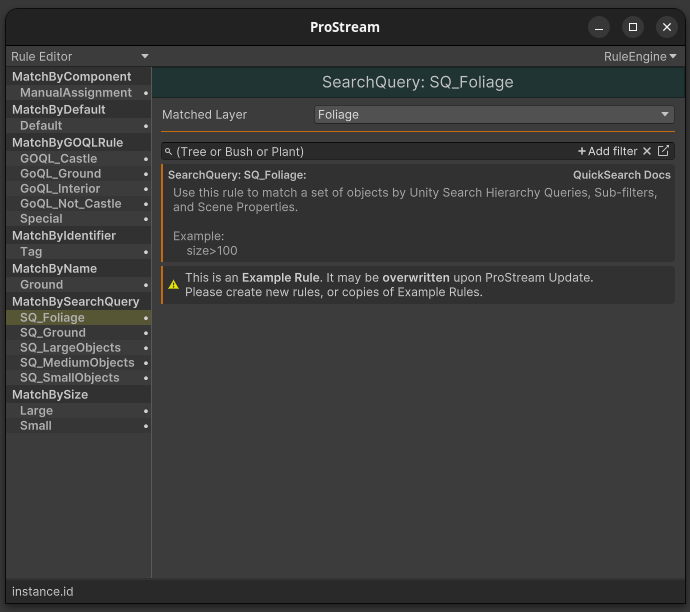
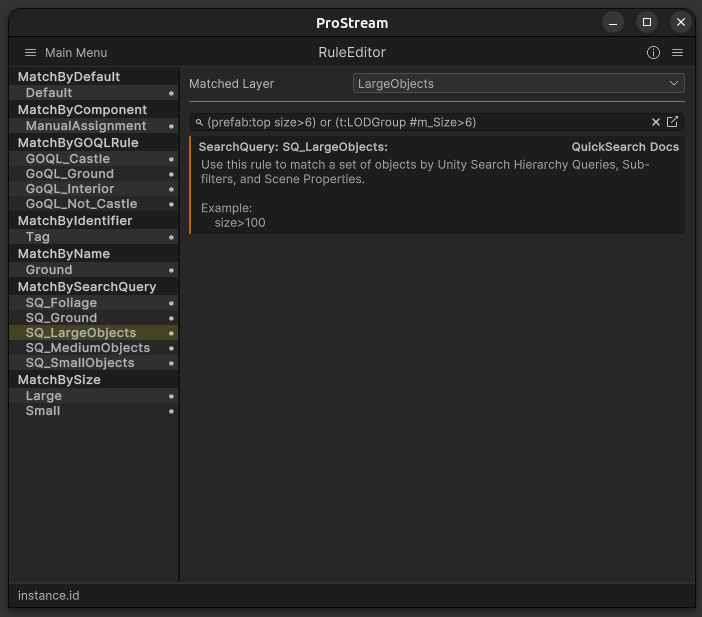
Updating images to current

Changed region(s): [[0.0, 0.031, 1.0, 0.9935], [0.0, 0.9314, 0.1217, 0.9935]]

diff --git a/docs/topics/BasicWorkflow.md b/docs/topics/BasicWorkflow.md
@@ -32,6 +32,13 @@
 
 ---------
 
+[//]: # (Main Interface: Include MainInterface.md)
+
+## Main Interface
+
+<a href="MainInterface.md" summary="View Additional Details">Main Interface Details</a>
+
+
 [//]: # (Add Scene Search Filter To Scene:  Include SceneSearchFilter.md)
 
 ## Add Scene Search Filters

diff --git a/docs/topics/ProStream-Editor.md b/docs/topics/ProStream-Editor.md
@@ -44,4 +44,14 @@ A new label will be added to the scene to indicate that it is a streaming scene.
 
 ![streaming_scene_label.png](streaming_scene_label.png)
 
+
+</snippet>
+
+
+## Main Editor Window
+
+<snippet id="prostream_editor_main_window">
+
+![main_ps_editor.png](main_ps_editor.png)
+
 </snippet>
